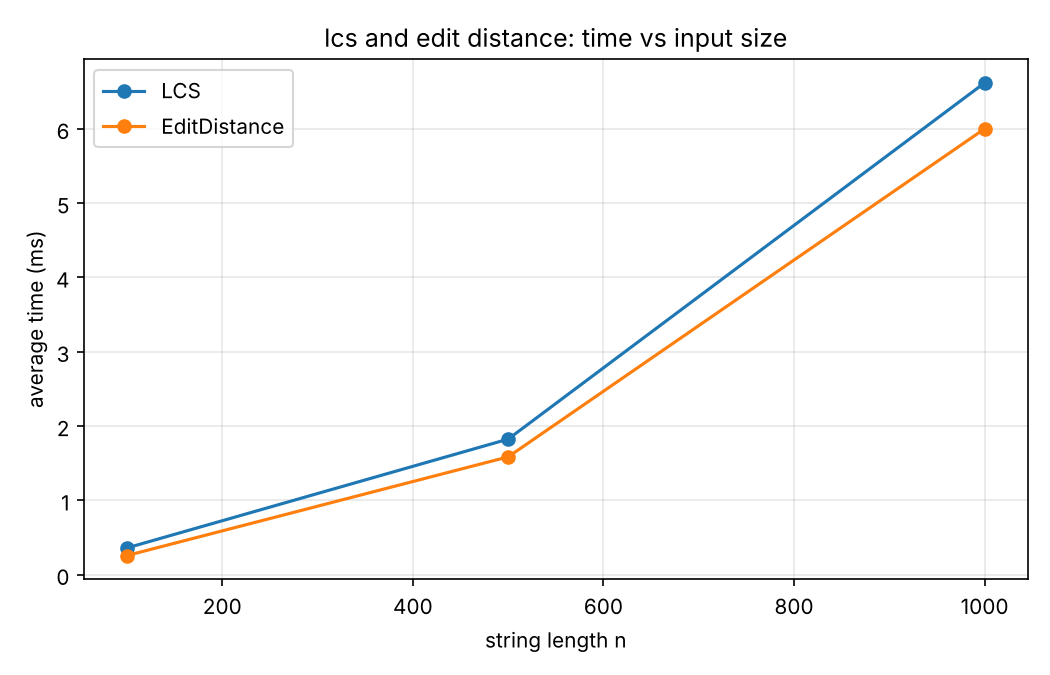
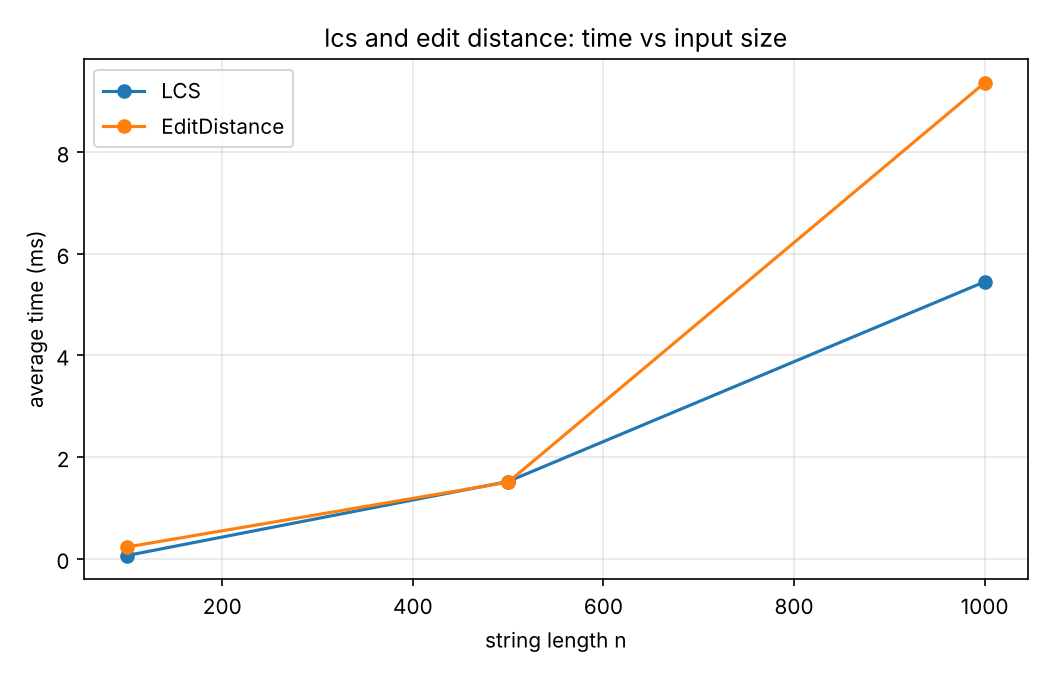
update benchmark results and add worst-case csv

diff --git a/results/plot.py b/results/plot.py
@@ -61,3 +61,21 @@ plt.grid(True, alpha=0.3)
 plt.tight_layout()
 plt.savefig(os.path.join(here, "plot_kasai.png"), dpi=150)
 plt.close()
+
+w = read("worstcase.csv")
+fig, axes = plt.subplots(2, 2, figsize=(11, 8))
+for col, kind in enumerate(["worst_absent", "worst_present"]):
+    for row, (value, label) in enumerate([("avg_ms", "average time (ms)"), ("comparisons", "character comparisons")]):
+        ax = axes[row][col]
+        for name in ["Naive", "KMP", "RabinKarp"]:
+            pts = series(w, "algorithm", value, algorithm=name, pattern=kind)
+            ax.plot([p[0] for p in pts], [p[1] for p in pts], marker="o", label=name)
+        ax.set_xlabel("text length n")
+        ax.set_ylabel(label)
+        ax.set_title(kind + ": " + value)
+        ax.grid(True, alpha=0.3)
+axes[0][0].legend()
+fig.suptitle("worst case: text of only 'a'")
+fig.tight_layout()
+fig.savefig(os.path.join(here, "plot_worstcase.png"), dpi=150)
+plt.close(fig)
